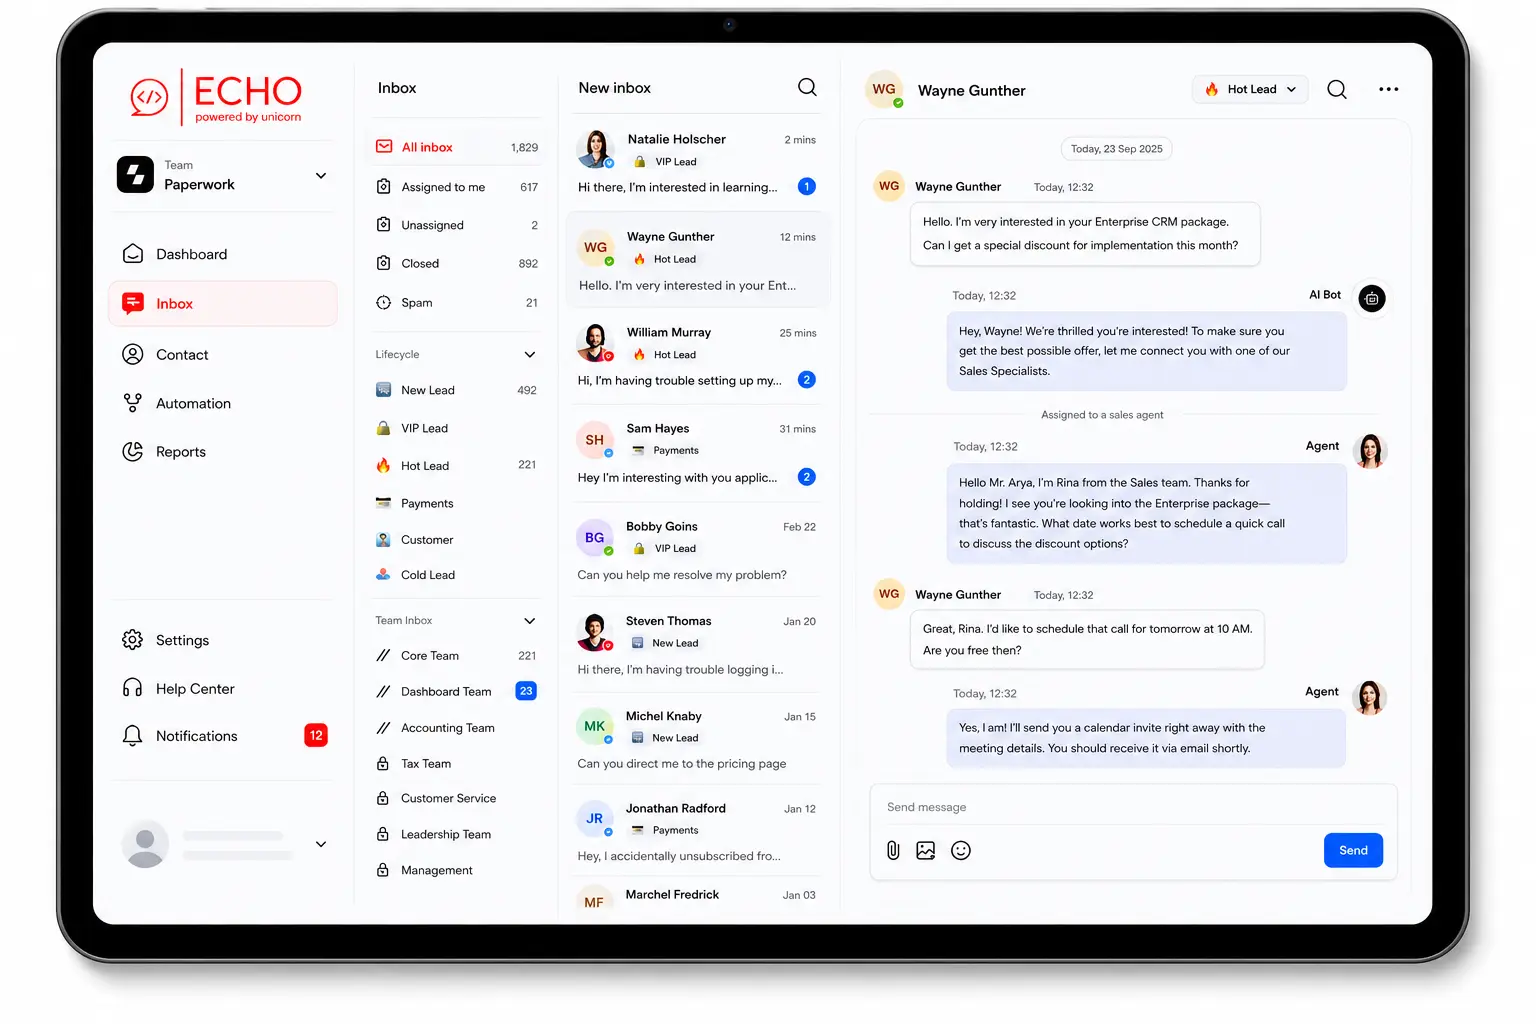
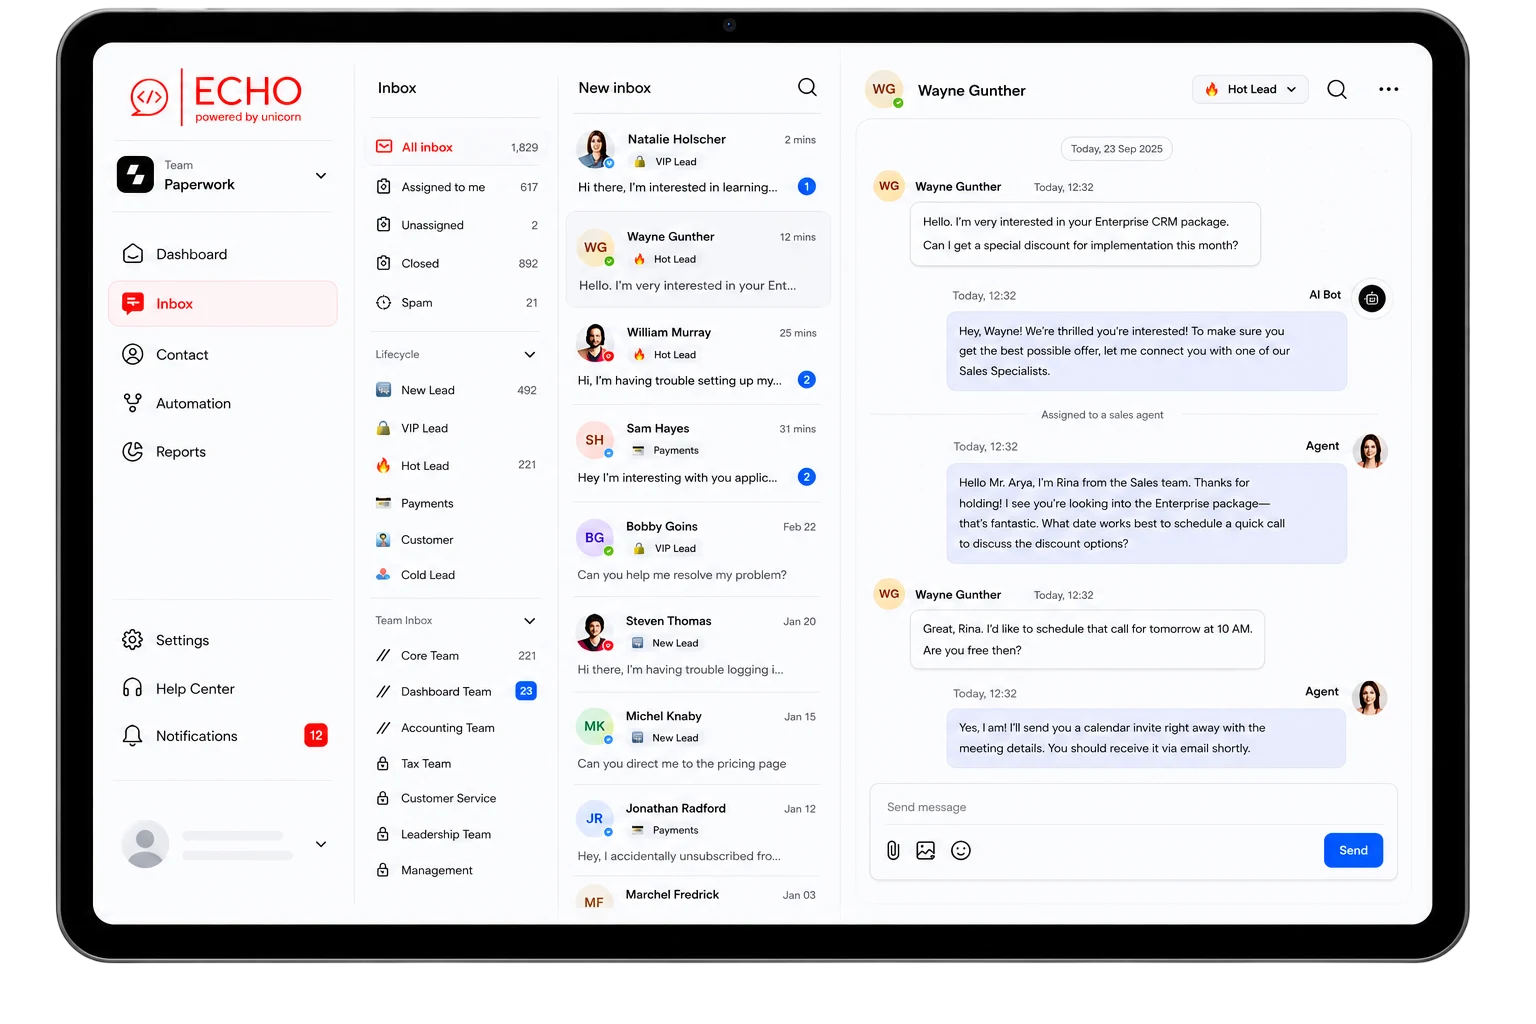
image update

Changed region(s): [[0.0312, 0.0625, 0.9688, 0.9688]]

diff --git a/src/app/product/page.tsx b/src/app/product/page.tsx
@@ -106,7 +106,7 @@ export default function ProductsPage() {
         {/* Products — full-width sections, no cards */}
         <section className="pb-8">
           <div className="mx-auto max-w-[1280px] px-6">
-            <div className="mb-16 text-center">
+            <div className="mb-10 text-center">
               <p className="mb-3 text-[11px] font-semibold uppercase tracking-[0.22em] text-primary-red">Platform Modules</p>
               <h2 className="text-3xl font-bold text-foreground md:text-4xl">Three pillars. One connected platform.</h2>
             </div>
@@ -124,18 +124,22 @@ export default function ProductsPage() {
                 whileInView={{ opacity: 1, y: 0 }}
                 viewport={{ once: true, margin: "-60px" }}
                 transition={{ duration: 0.7, ease: [0.16, 1, 0.3, 1] }}
-                className="border-t border-[var(--border)] py-20 lg:py-28"
+                className="border-t border-[var(--border)] py-12 lg:py-16"
               >
-                <div className="mx-auto grid max-w-[1280px] grid-cols-1 items-center gap-12 px-6 lg:grid-cols-2 lg:gap-20">
+                <div className="mx-auto grid max-w-[1280px] grid-cols-1 items-center gap-8 px-6 lg:grid-cols-2 lg:gap-12">
                   {/* Image column */}
-                  <div className={`relative ${isReversed ? "lg:order-2" : "lg:order-1"}`}>
-                    <div className="relative mx-auto aspect-[4/3] w-full max-w-[560px] lg:max-w-none lg:aspect-[16/10]">
+                  <div className={`relative px-1 sm:px-2 ${isReversed ? "lg:order-2" : "lg:order-1"}`}>
+                    <div
+                      className="pointer-events-none absolute left-1/2 top-1/2 -z-10 h-[80%] w-[92%] -translate-x-1/2 -translate-y-1/2 rounded-full bg-primary-red/15 blur-[72px] sm:bg-primary-red/18 sm:blur-[96px] lg:blur-[120px]"
+                      aria-hidden
+                    />
+                    <div className="relative mx-auto aspect-[4/3] w-full min-h-[300px] sm:min-h-[380px] lg:aspect-[16/10] lg:min-h-[460px] xl:min-h-[540px]">
                       <Image
                         src={product.image}
                         alt={product.title}
                         fill
-                        sizes="(max-width: 1024px) 100vw, 560px"
-                        className="object-contain object-center"
+                        sizes="(max-width: 1024px) 100vw, 720px"
+                        className="object-contain object-center drop-shadow-[0_24px_64px_rgba(242,13,20,0.14)]"
                       />
                     </div>
                   </div>
